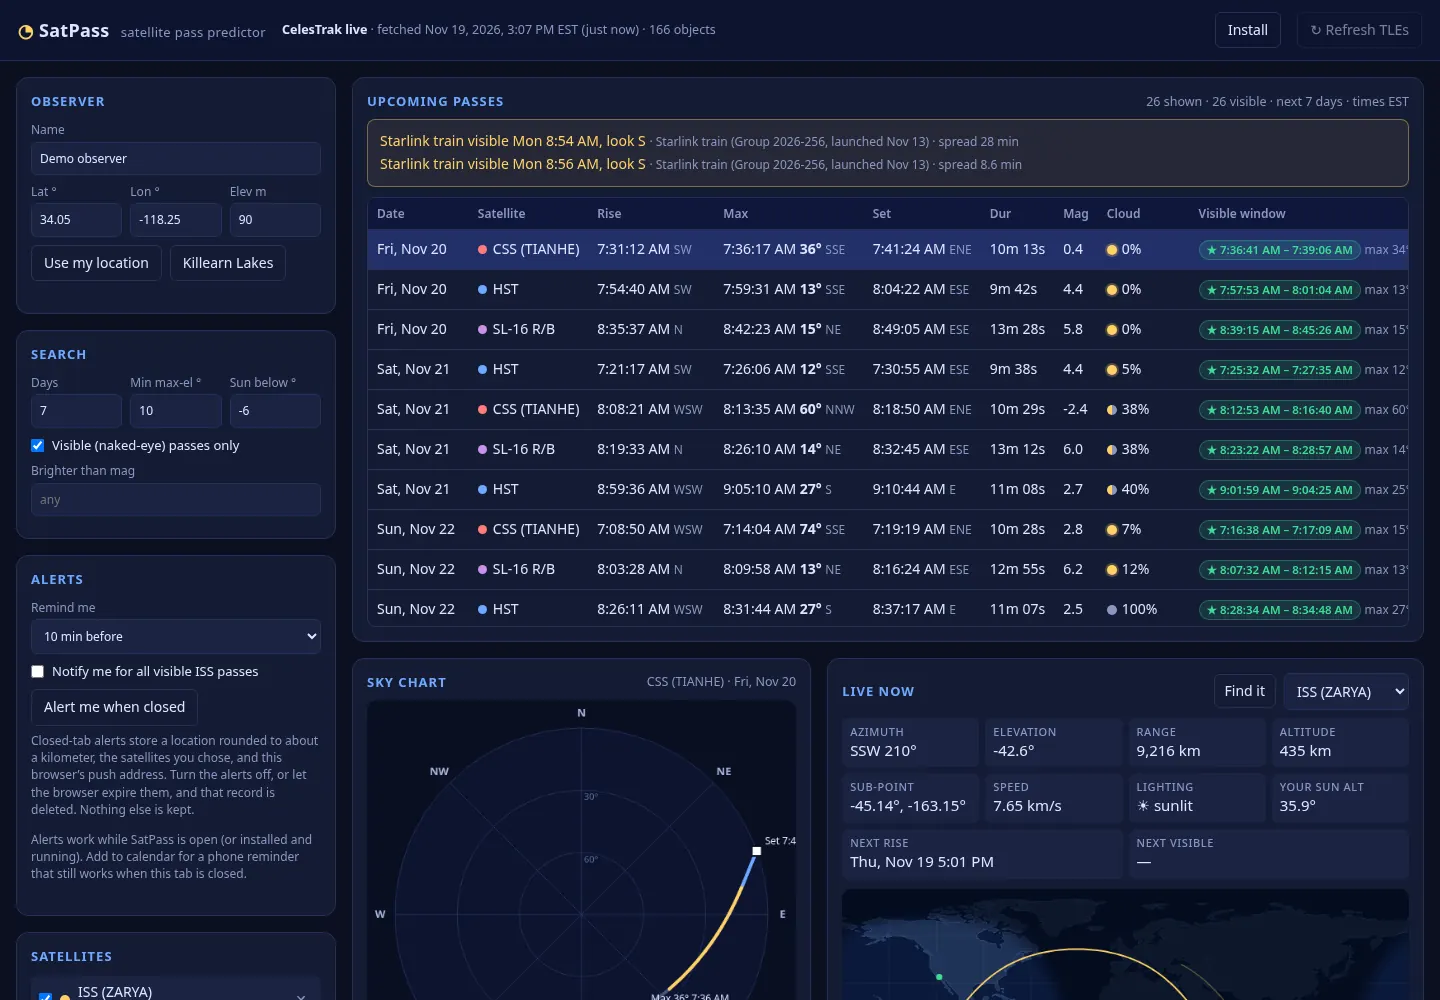
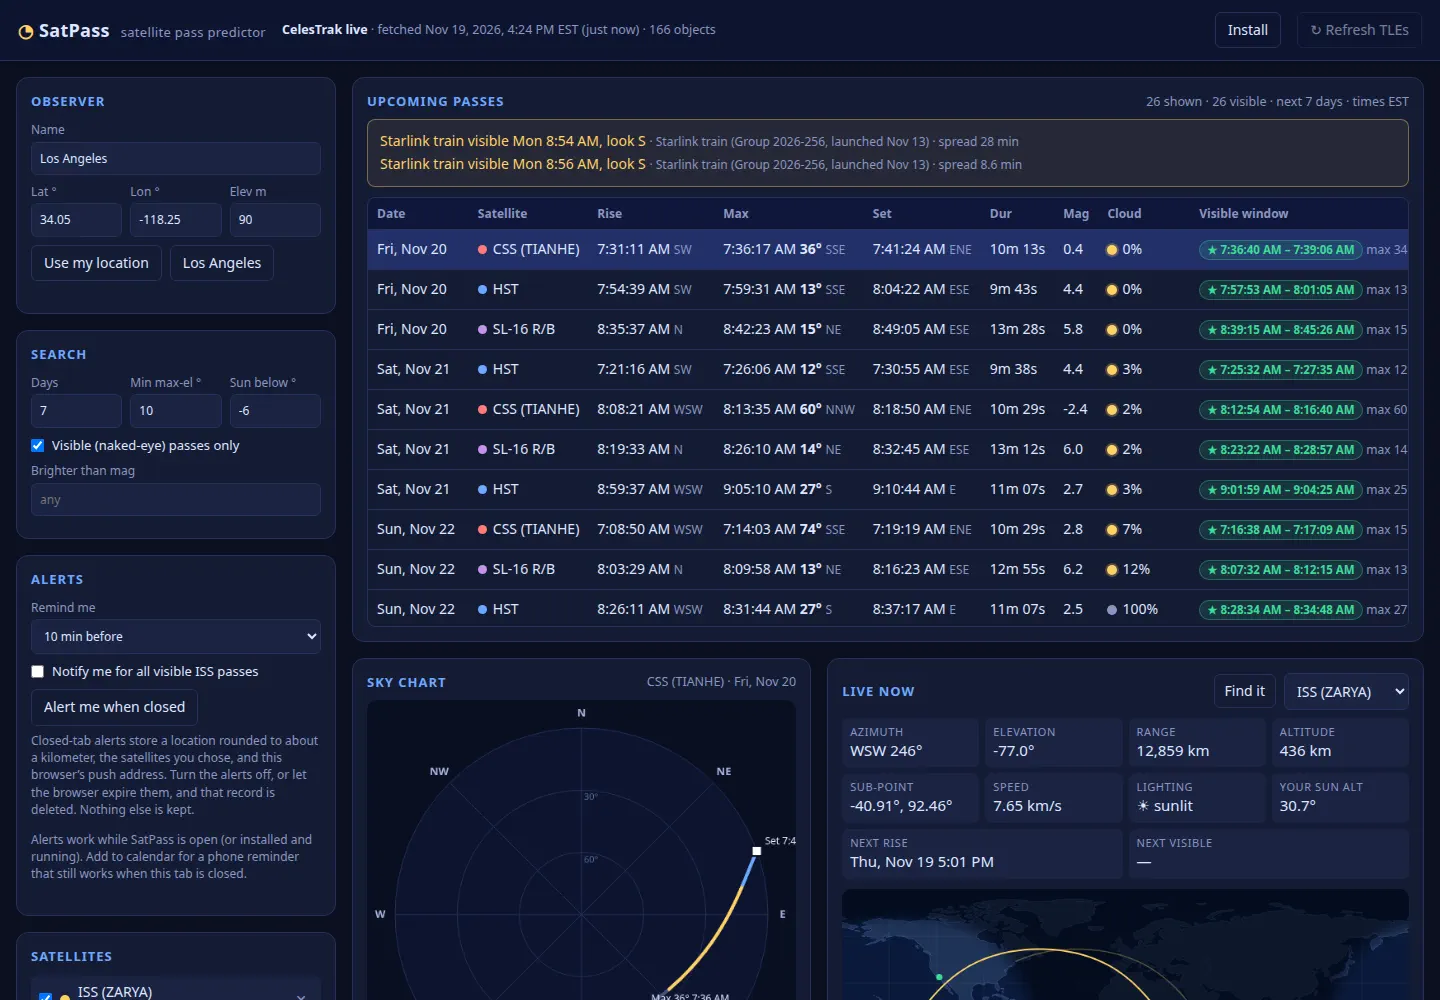
Replace the SatPass image with the Los Angeles default.
The live page now opens on Los Angeles, 34.05, -118.25, and the reset button reads Los Angeles. The project note matches that.

diff --git a/projects/index.html b/projects/index.html
@@ -150,7 +150,7 @@
               <span class="shot-zoom">Enlarge</span>
             </button>
           </div>
-          <p>I built a browser satellite-pass predictor. It shows when the ISS, Tiangong, Hubble, and other bright satellites cross the sky, and which of those passes can be seen with the naked eye. It opens on Tallahassee.</p>
+          <p>I built a browser satellite-pass predictor. It shows when the ISS, Tiangong, Hubble, and other bright satellites cross the sky, and which of those passes can be seen with the naked eye. It opens on Los Angeles.</p>
           <p class="link-row">
             <a href="https://satpass.lukedw09.com/">satpass.lukedw09.com</a>
             <a href="https://github.com/Lukedw09/satpass">github.com/Lukedw09/satpass</a>
